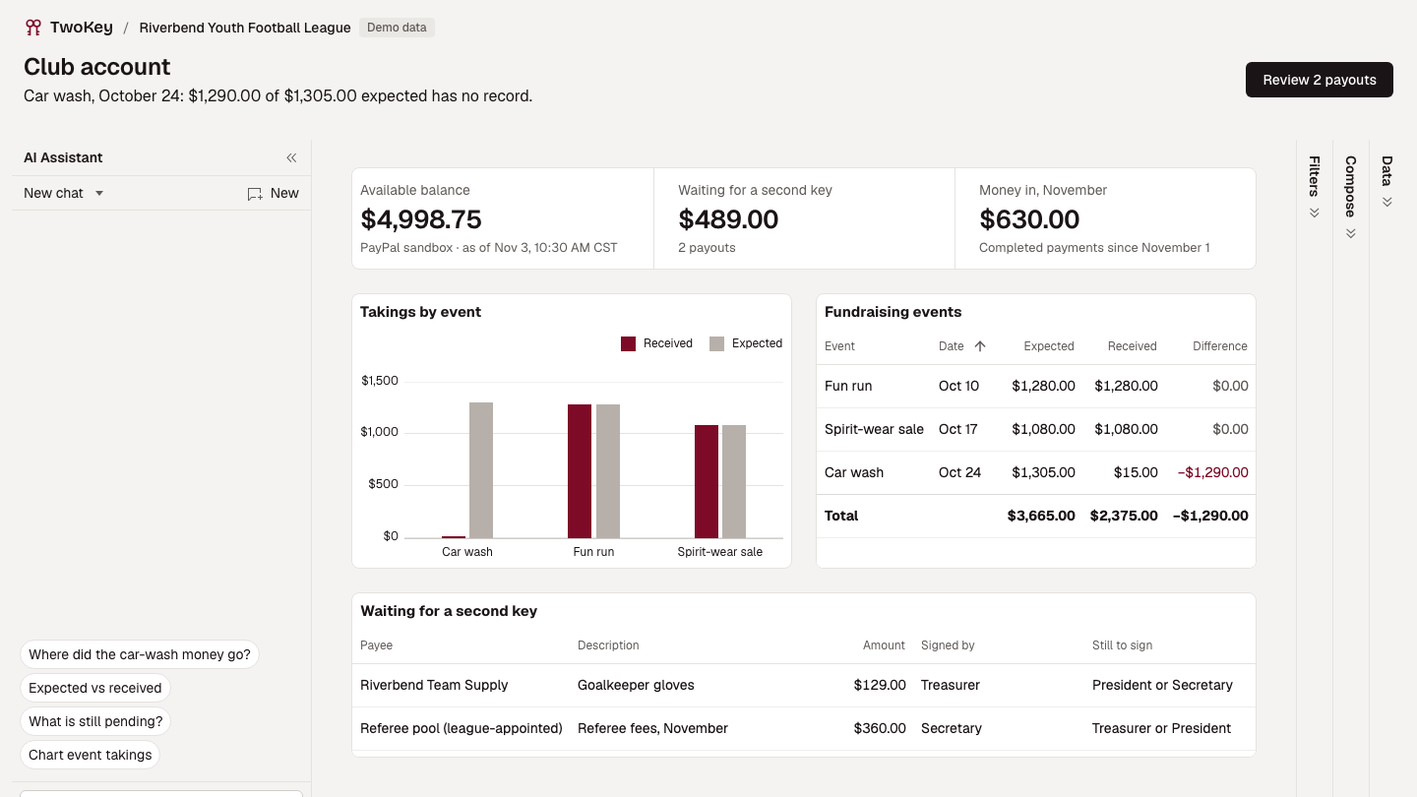
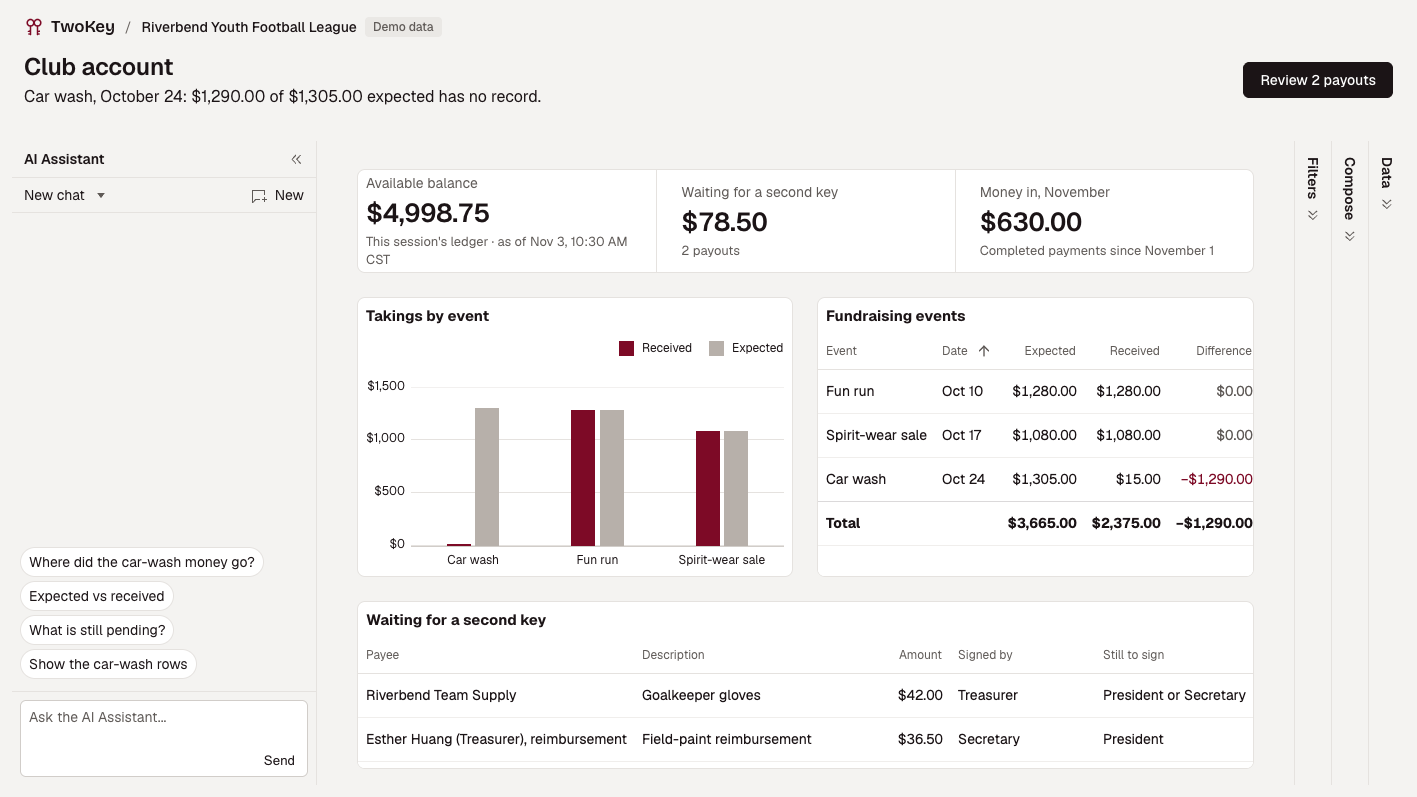
Landing: retake the board screenshot with the re-seeded queue and the new fourth starter

diff --git a/src/ui/landing/ask-ledger-section.tsx b/src/ui/landing/ask-ledger-section.tsx
@@ -109,7 +109,7 @@ export function AskLedgerSection() {
               src="/landing/img/demo-dashboard.png"
               width={1417}
               height={797}
-              alt="The TwoKey board in AG Studio. Under the title, the finding: car wash, October 24, $1,290.00 of $1,305.00 expected has no record. A strip shows the $4,998.75 balance from the PayPal sandbox, $489.00 in two payouts waiting for a second key, and $630.00 in for November. A chart compares received against expected takings for each event, beside the events table, above the queue of payouts waiting for a second officer's signature."
+              alt="The TwoKey board in AG Studio. Under the title, the finding: car wash, October 24, $1,290.00 of $1,305.00 expected has no record. A strip shows the $4,998.75 balance in the session's ledger, $78.50 in two payouts waiting for a second key, and $630.00 in for November. A chart compares received against expected takings for each event, beside the events table, above the queue of payouts waiting for a second officer's signature: $42.00 for goalkeeper gloves and a $36.50 field-paint reimbursement to the treasurer."
               loading="lazy"
               decoding="async"
             />
